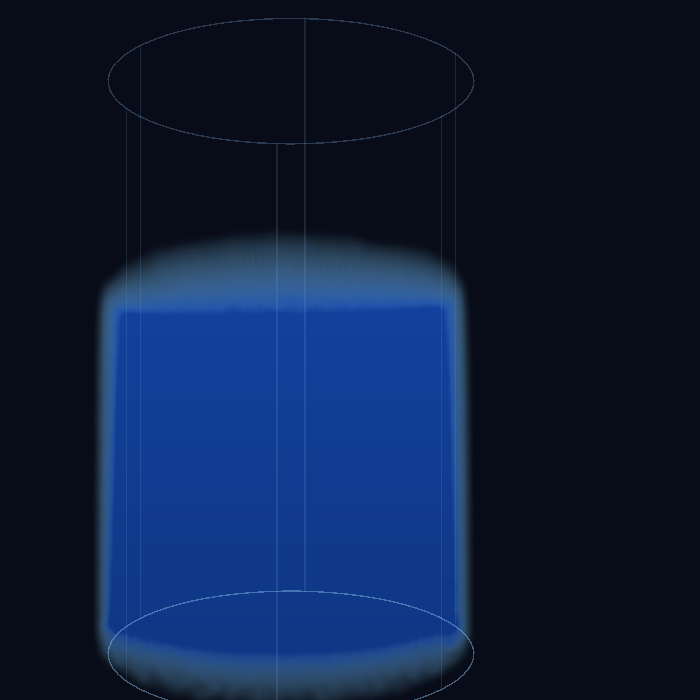
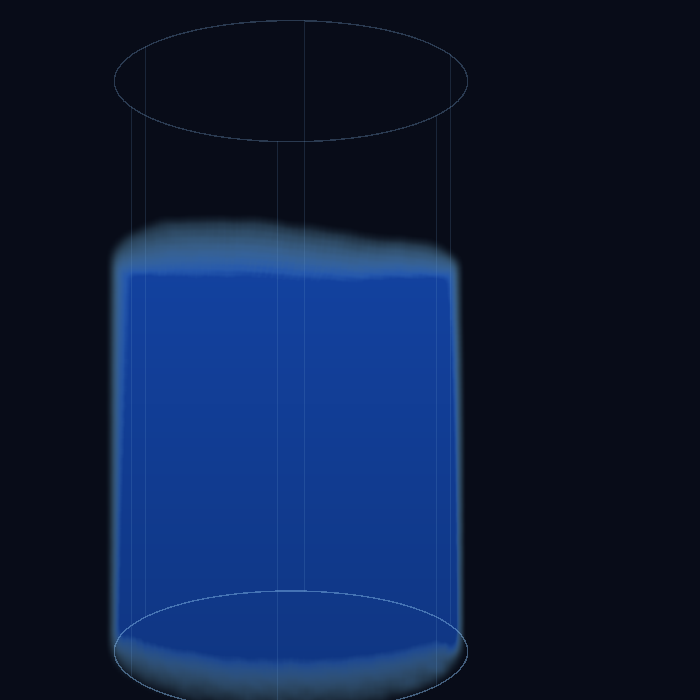
fix(cup): water no longer leaks out of the glass, drawn cup is the real boundary
Volume shrinkage had one cause: MPM constrains velocity on the grid, but a particle whose centre crosses the wall simply keeps going, and once it leaves the grid its mass is silently dropped from the transfer. Every particle is now clamped after the grid-to-particle step - radius to R_LIM, height between the floor and the rim - with the outward velocity component removed, so mass is conserved: the surface holds at 0.70-0.725 against a fill of 0.72 over a quarter second, where it used to collapse to 0.09. The second complaint was that the glass outline did not match the constraint: the rings were drawn at R_CUP while the solver used R_CUP - DX for the grid and nothing at all for the particles. Three radii are now one, R_LIM for both the particle clamp and the drawn rings, and the floor is drawn at Y_FLOOR instead of zero. Bulk modulus went from 1e7 to 3e7, which cuts the settling compression from 11 percent to about 2. The initial column now reaches the glass instead of leaving a visible gap.

diff --git a/apps/Physics/CupVortex.py b/apps/Physics/CupVortex.py
@@ -14,7 +14,9 @@ DT = 3e-4
 SUBSTEPS = 20
 GRAVITY = -9.81
 
-R_CUP = 0.30
+R_CUP = 0.30              # 画出来的杯子内壁半径
+R_LIM = R_CUP - 0.010     # 粒子中心能到达的半径（壁厚）
+Y_FLOOR = 0.004           # 杯底（画在 y=0，粒子中心留在 0.004 之上）
 H_CUP = 1.00
 FILL = 0.72
 
@@ -22,7 +24,7 @@ SPACING = DX * 0.80        # 实际粒子间距
 P_VOL = SPACING ** 3      # 每个粒子代表的体积（必须和间距一致，否则水位不对）
 P_RHO = 1000.0
 P_MASS = P_VOL * P_RHO
-E_FLUID = 1.0e7           # 体积模量：实测 1e7 时水面稳定在 0.67（灌装 0.72）
+E_FLUID = 3.0e7           # 体积模量：实测 1e7 时水面稳定在 0.67（灌装 0.72）
 VISC_DAMP = 0.9995
 
 RW, RH = 640, 620
@@ -72,7 +74,7 @@ class CupFluid:
     # ---------- 初始水体 ----------
     def _make_points(self):
         pts = []
-        r_max = R_CUP - 0.02
+        r_max = R_LIM - 0.5 * SPACING
         y = 0.03
         spacing = SPACING
         while y < 0.03 + FILL * H_CUP:
@@ -137,16 +139,16 @@ class CupFluid:
                     vout = gv[i, j, k] / gm[i, j, k]
                     vout[1] += DT * GRAVITY
                     vout *= VISC_DAMP
-                    if j <= 1 and vout[1] < 0.0:
+                    if (ti.cast(j, real) + 0.5) * DX < Y_FLOOR + DX and vout[1] < 0.0:
                         vout = ti.Vector([0.0, 0.0, 0.0])
                     px = (ti.cast(i, real) + 0.5) * DX - c[0]
                     pz = (ti.cast(k, real) + 0.5) * DX - c[2]
                     rr = ti.sqrt(px * px + pz * pz) + 1e-8
-                    if rr > R_CUP - DX:
+                    if rr > R_LIM - DX:
                         nx = px / rr
                         nz = pz / rr
-                        vx = cv[0] + (-nz) * w_ * R_CUP
-                        vz = cv[2] + (nx) * w_ * R_CUP
+                        vx = cv[0] + (-nz) * w_ * R_LIM
+                        vz = cv[2] + (nx) * w_ * R_LIM
                         vn = vout[0] * nx + vout[2] * nz
                         if vn > 0.0:
                             vout[0] -= vn * nx
@@ -156,6 +158,39 @@ class CupFluid:
                     if (ti.cast(j, real) + 0.5) * DX > H_CUP and vout[1] > 0.0:
                         vout[1] = 0.0
                     gv[i, j, k] = vout
+
+        @ti.kernel
+        def clamp_particles():
+            c = cup_c[None]
+            cv = cup_v[None]
+            for p in range(n):
+                px = x[p]
+                # 杯底 / 杯口
+                if px[1] < Y_FLOOR:
+                    px[1] = Y_FLOOR
+                    if v[p][1] < 0.0:
+                        v[p][1] = 0.0
+                if px[1] > H_CUP:
+                    px[1] = H_CUP
+                    if v[p][1] > 0.0:
+                        v[p][1] = 0.0
+                # 圆柱侧壁：位置拉回 + 只保留切向速度
+                dx_ = px[0] - c[0]
+                dz_ = px[2] - c[2]
+                rr = ti.sqrt(dx_ * dx_ + dz_ * dz_)
+                if rr > R_LIM:
+                    nx = dx_ / (rr + 1e-8)
+                    nz = dz_ / (rr + 1e-8)
+                    px[0] = c[0] + nx * R_LIM
+                    px[2] = c[2] + nz * R_LIM
+                    vn = v[p][0] * nx + v[p][2] * nz
+                    if vn > 0.0:
+                        v[p][0] -= vn * nx
+                        v[p][2] -= vn * nz
+                # 兜底：留在网格内
+                px[0] = ti.min(ti.max(px[0], 2.0 * DX), 1.0 - 2.0 * DX)
+                px[2] = ti.min(ti.max(px[2], 2.0 * DX), 1.0 - 2.0 * DX)
+                x[p] = px
 
         @ti.kernel
         def g2p():
@@ -258,6 +293,7 @@ class CupFluid:
         self._p2g = p2g
         self._grid = grid_update
         self._g2p = g2p
+        self._clamp = clamp_particles
         self._splat = splat
         self._blur_h = blur_h
         self._blur_v = blur_v
@@ -269,6 +305,7 @@ class CupFluid:
             self._p2g()
             self._grid()
             self._g2p()
+            self._clamp()
 
     def draw(self, m, scale, cx, cy, center):
         self._splat(m[0][0], m[0][1], m[0][2],
@@ -341,10 +378,10 @@ class CupCanvas(QWidget):
         p.drawImage(QRectF(ox, oy, wr * k, hr * k), qimg)
 
         p.setBrush(Qt.NoBrush)
-        for yy, alpha in ((0.0, 120), (H_CUP, 70)):
+        for yy, alpha in ((Y_FLOOR, 120), (H_CUP, 70)):
             a = np.linspace(0, 2 * np.pi, 72)
-            ring = np.stack([c[0] + R_CUP * np.cos(a), np.full(72, yy),
-                             c[2] + R_CUP * np.sin(a)], axis=1).astype(np.float32)
+            ring = np.stack([c[0] + R_LIM * np.cos(a), np.full(72, yy),
+                             c[2] + R_LIM * np.sin(a)], axis=1).astype(np.float32)
             rx, ry = self.project_points(ring)
             rx = ox + rx * k
             ry = oy + ry * k
@@ -352,8 +389,8 @@ class CupCanvas(QWidget):
             p.drawPolyline(QPolygonF([QPointF(float(u), float(v_)) for u, v_ in zip(rx, ry)]))
         for kk in range(6):
             a = kk * np.pi / 3
-            seg = np.array([[c[0] + R_CUP * np.cos(a), 0.0, c[2] + R_CUP * np.sin(a)],
-                            [c[0] + R_CUP * np.cos(a), H_CUP, c[2] + R_CUP * np.sin(a)]],
+            seg = np.array([[c[0] + R_LIM * np.cos(a), Y_FLOOR, c[2] + R_LIM * np.sin(a)],
+                            [c[0] + R_LIM * np.cos(a), H_CUP, c[2] + R_LIM * np.sin(a)]],
                            np.float32)
             rx, ry = self.project_points(seg)
             rx = ox + rx * k
